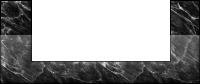
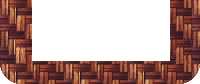
Graphical enhancements

diff --git a/Devious/dm/graphics.py b/Devious/dm/graphics.py
@@ -90,8 +90,7 @@ class GameWindow(object):
         f = pygame.font.Font("data/Dalila.ttf", 50)
         text0 = f.render("Level completed", True, (250, 250, 250))
         self.screen.blit(text0, (100, 50))
-        for i in range(100): # Display hundred frames of animation more before stopping
-            self.update(False)
+        self.update(False)
         self.all_group.empty()
         
         

diff --git a/Devious/dm/levels/level_0.py b/Devious/dm/levels/level_0.py
@@ -5,7 +5,7 @@ import pygame
 from common import std_tools
 
 NAME = "Tutorial level : Leverage"
-INSTRUCTIONS = "Get the yellow tennis ball into the stone container"
+INSTRUCTIONS = "Get the yellow tennis ball into the basket"
 
 tools = []
 
